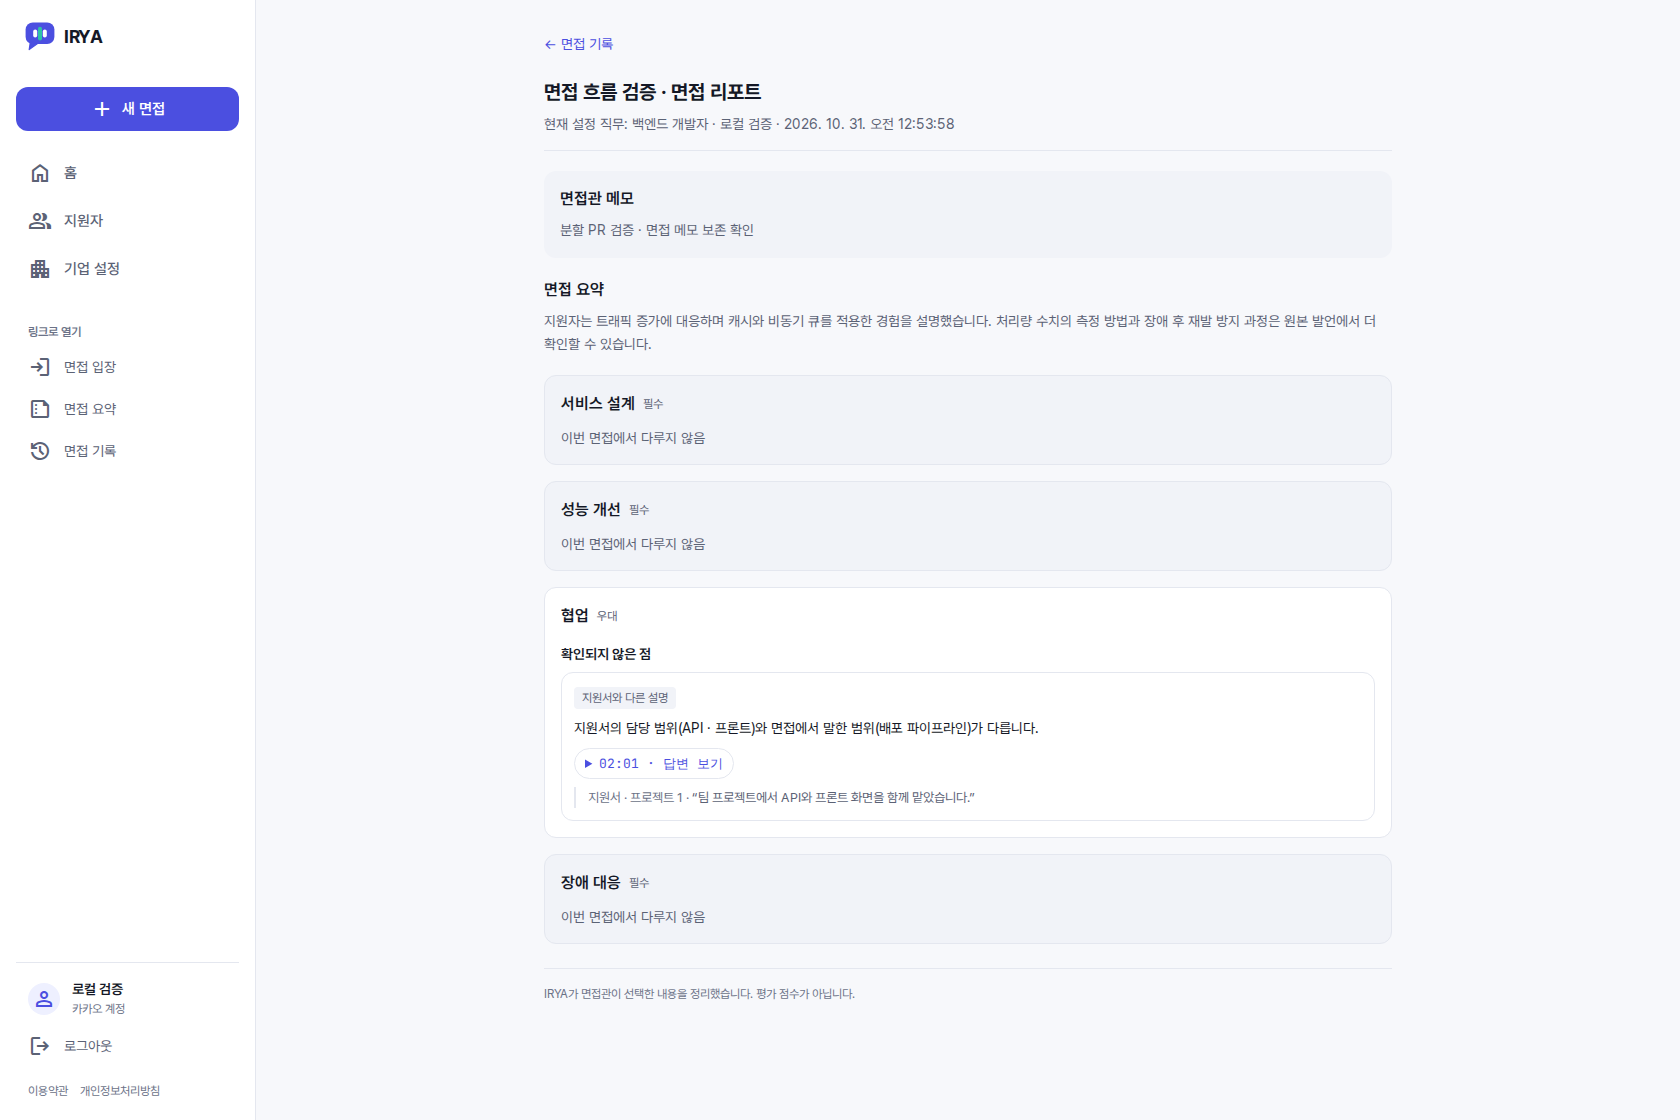
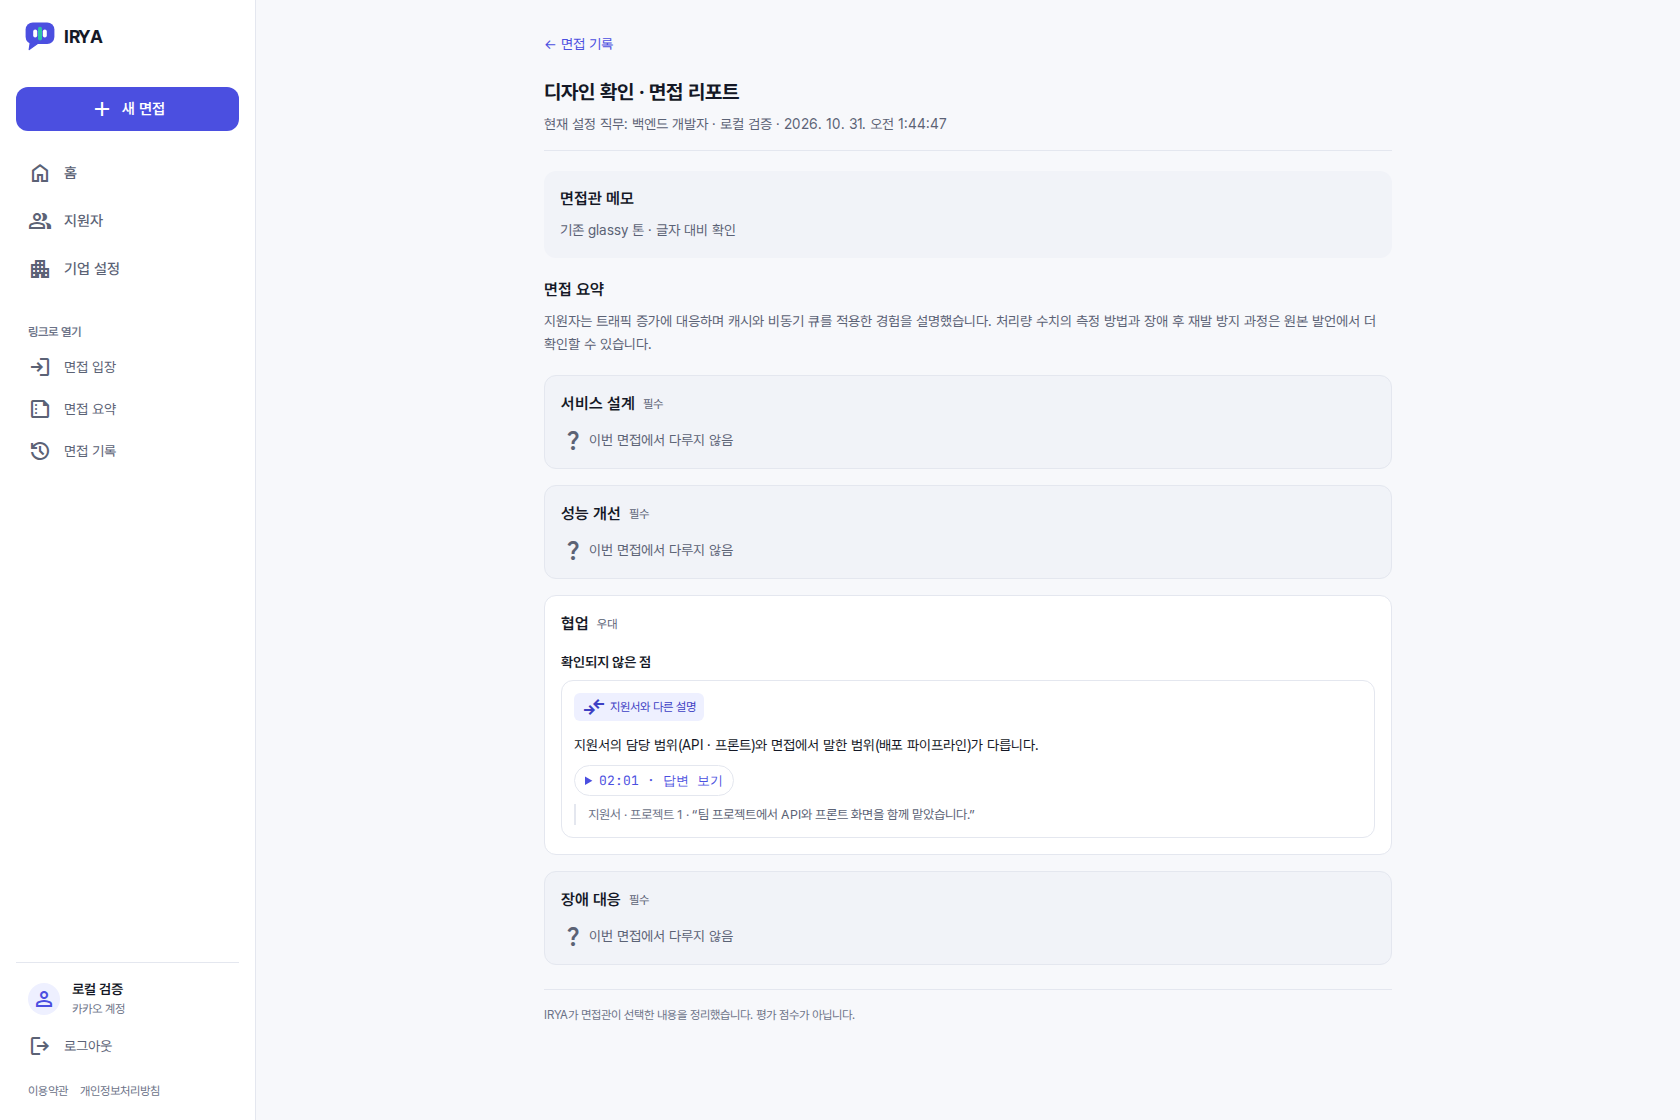
test(fe): 리포트 사진과 분석 실패 화면을 교체한다

diff --git a/frontend/docs/screenshots/240-report/README.md b/frontend/docs/screenshots/240-report/README.md
@@ -1,10 +1,10 @@
-# F10 화면 검증
+# F10 화면 검증 — 2026-10-31
 
-2026-10-31 분할 브랜치 조합에서 현재 리포트 컴포넌트를 실제 API에 연결한 화면이다.
+현재 리포트 컴포넌트를 실제 로컬 API에 연결해 다시 촬영했다. 원래 사이트의 공통 메모·시각 칩·검토 버튼 톤을 유지했다.
 
-- 분할 F10 브랜치 FE 46개·lint·format·타입·빌드 통과.
-- 실제 검토 항목 포함→검토 완료→생성 요청→PROCESSING 경로를 확인했다.
-- 빈 사전 가공 테스트 입력에서는 NO_EVIDENCE를 확인했다. 고정 사전 가공 입력을 보완한 뒤 실제 생성 API와 REPORT 폴러를 다시 실행해 READY를 확인했다. 완료 리포트 재생성 UI를 추가한 것은 아니다.
-- 세션 ENDED·검토 CONFIRMED·리포트 READY와 메모 일치를 실제 응답에서 확인했다.
-- STT/질문/사전 가공/검토 입력은 고정 대역이며 리포트는 추출형 ReportAgent다. 실제 외부 모델·Egress 결과는 아니다.
-- 직접 리포트 URL과 모바일 화면을 캡처했다. 원문·출처·다루지 않은 항목을 유지한다.
+- 종류별 아이콘+글자와 MISSING 카드 아이콘을 추가했다. 원문 인용·시각 null 처리와 미다룬 항목의 후속 질문은 유지한다.
+- 항목 분석 실패(FAILED)와 실제 빈 목록(EMPTY)을 구분한다. 요약만 실패했지만 항목이 유효한 경우를 잘못 막지 않는다. 새 회귀 검사는 수정 전 실패, 수정 후 통과했다.
+- 실제 검토 완료→생성→PROCESSING→REPORT 폴러→READY 및 메모 일치를 확인했다. 영상·STT/질문/사전 가공/검토는 테스트 대역이며 리포트는 추출형 생성기다.
+- 기존 리포트 사진3개를 새 촬영본으로 교체하고 분석 실패 화면1개를 추가했다.
+- 인쇄·PDF·A4·다시 만들기는 #240 제외 범위다. 별도 진단에서 기본 브라우저 PDF는 접힌 발화를 누락하고 하단 앱 메뉴를 인쇄했다. 전용 출력 지원 완료로 안내하지 않는다.
+- #240의 회사명 표시는 #238 응답에 별도 필드가 없어 계약 확인이 필요하다. F10_FIGMA_BRIEF.md v3 원문 시안 일치는 아직 미확인이다.
